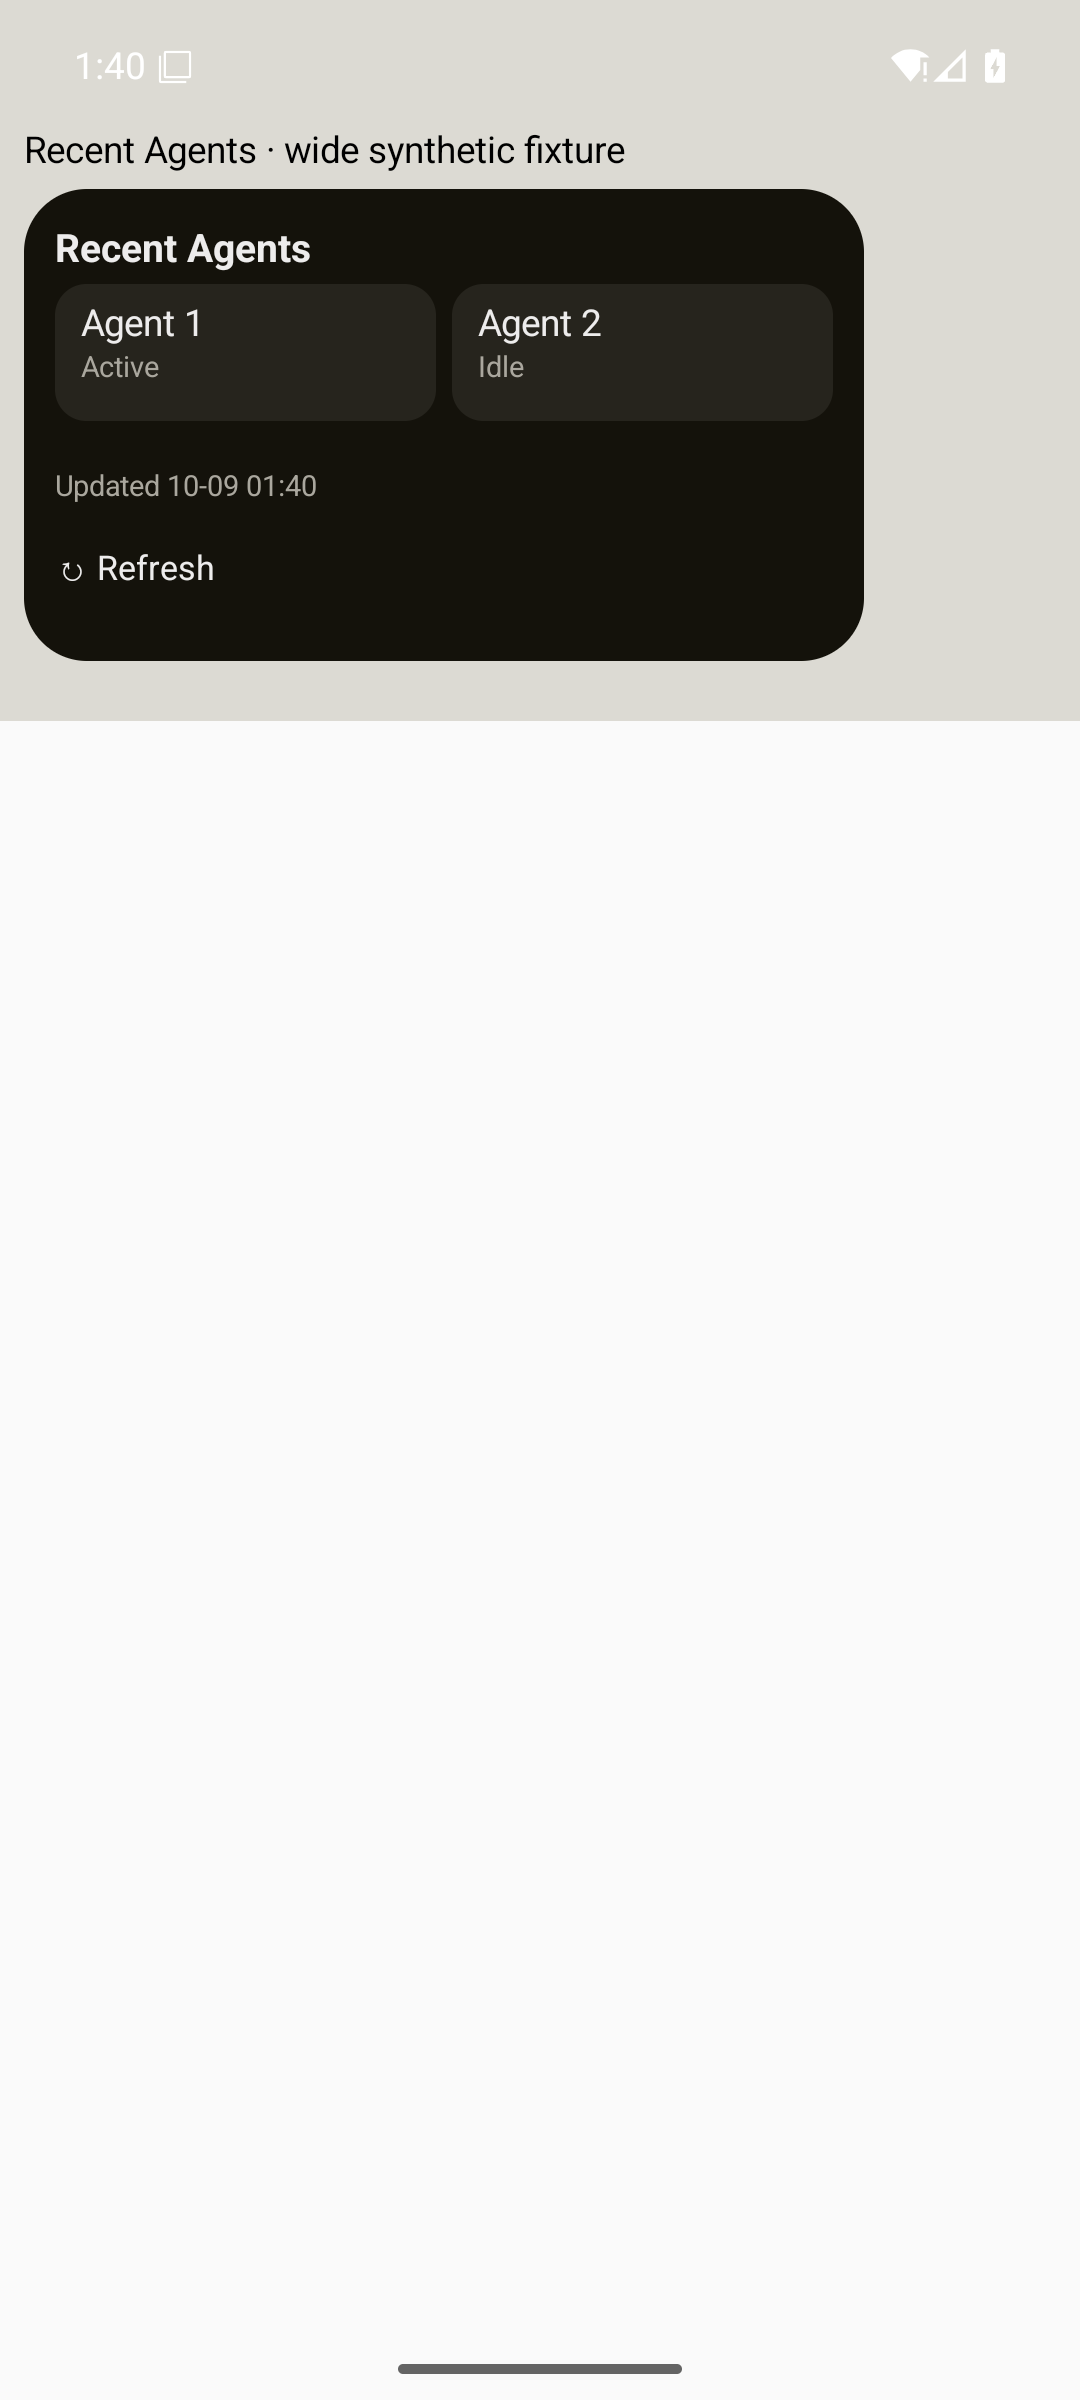
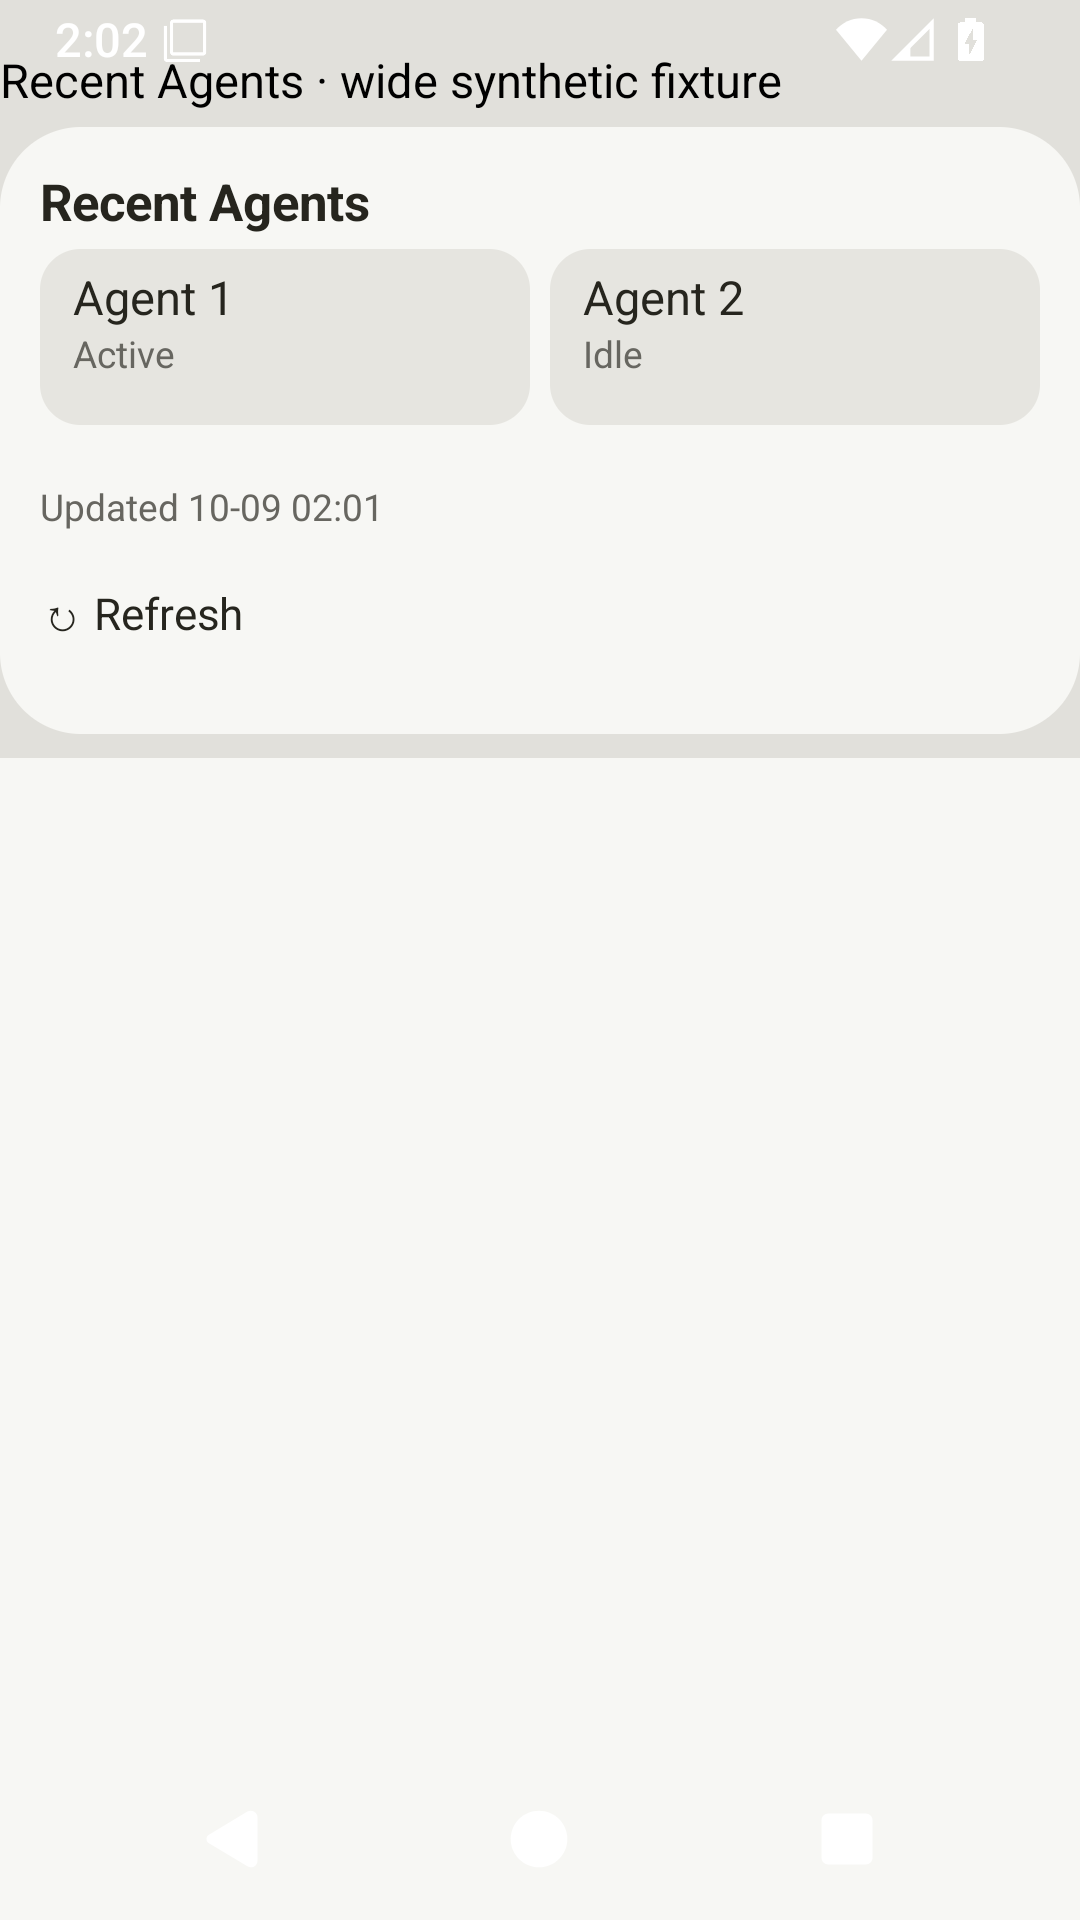
docs(readme): replace native previews with redesigned captures
行为：用 Android checks run 37872252009 的 device-screens 产物同名替换 8 张原生 PNG
（逐字节拷贝，未裁剪、未缩放）。README 的 3 张原生预览改用深色那轮：
settings-connections、usage-signed-out、overlay-fixture；小组件说明的 5 张按方案用
浅色那轮：usage-160x80、usage-320x180、agents-wide、usage-chinese、
large-text-160x80。README（中英）图注与 alt 改为「API 36 模拟器实拍、1080×1920 px、
320 dp 宽、深色系统主题、浅色见小组件说明、68%/39% 为注入的合成数据、未用任何凭据」；
home-screen-widgets.md 注明浅色主题、画幅与 QA 宿主标签；validation.md 新增
Cursor visual refresh 一节，记录本地与 CI 的命令和结果。
画幅：CI 模拟器皮肤是 320×640，WindowManager 把强制尺寸限制为长边的 3 倍
（1920 px），所以实际是 1080×1920（320×569 dp），而不是原来的 1080×2400。图片保持
原样，只更新文档里的尺寸描述；README 以 width=220 展示，只是更短，不影响阅读。
三处疑点均判定为截图环境问题，不是 App 的 P0/P1：
1. 浅色截图底部导航栏纯白：底色 254 是 enableEdgeToEdge 按浅色模式画的 90% 白
   scrim，说明 App 已请求浅色导航栏；但 SystemUI 仍画了白色按钮。深色那轮在真实的
   uimode 配置变化后正常。
2. 浅色截图状态栏图标叠在时间上：同一轮的启动器截图（App 不在前台）里也有放大的
   系统通知图标，属于运行时 wm density 改动后 SystemUI 没有刷新的问题。因此 README
   原生预览没用浅色那轮。
3. 小组件截图标题压在状态栏下：标题是 debug 专用 WidgetQaActivity 的夹具标签，该
   宿主不处理系统栏 inset，CI 设备状态栏较矮；小组件本身完整、测试断言通过，不影响
   发布包。
另外 usage-signed-out 截图里看不到用量 sheet：测试已断言 sheet 内容存在，随后 BACK
被 sheet 消费（单页面时否则会结束 Activity，后续步骤会失败），说明截图早于 sheet 窗口
首帧呈现，属于截图时机问题；alt 与图注改为如实描述收件箱胶囊中的未登录用量。
兼容边界：文件名、引用路径、docs/zh-CN/** 历史归档、App 代码与测试不变。
验证：
python3 docs/scripts/check-docs.py   # 通过：102 个本地文档引用
git diff --check
cmp docs/assets/android-connections.png /tmp/device-screens/dark/native/settings-connections.png
（8 张图均已逐张目检并与产物逐字节比对一致）

diff --git a/docs/validation.md b/docs/validation.md
@@ -36,7 +36,7 @@ implementation reaches main. Domain/SSL activation is not a successful site-cont
 | Documentation links/evidence/HTML/SVG | `python3 docs/scripts/check-docs.py` passed: 100 local references including native screenshot sources, immutable counts, JSON/SVG, duplicate IDs, JS syntax |
 | Android reviewed native/widget suite | Widget milestone `d310966`: 37 unit tests passed, debug lint reported zero errors/fatal findings, and the debug build passed; Reviewer independently verified the reports |
 | Android instrumentation | 11/11 instrumentation tests passed on the API 36 emulator, with zero failures/errors/skips; this includes the native suite and six widget tests |
-| Native screenshot review | Actual API 36 / 320 dp signed-out connections/usage and compact overlay captured; overlay uses synthetic 68/39 fixtures; no credentials or paid run |
+| Native screenshot review | Actual API 36 / 320 dp captures from the device job's `device-screens` artifact (see Cursor visual refresh below); overlay uses synthetic 68/39 fixtures; no credentials or paid run |
 | Live account API-key and web sign-in | Not run; network behavior uses MockWebServer fixtures, with no paid Agent runs |
 | Website build/tests | Widget showcase `f18299a`: 19 Node tests, syntax, offline build, and diff checks passed; Reviewer approved with no P0/P1 findings |
 | Website ego preview | Coordinator passed desktop/320 px EN/CN, persistence, metrics/scenarios/pool toggles, keyboard/focus, reduced motion, three widget families/sizes, title privacy, unlimited/stale states, and action destinations |
@@ -65,6 +65,28 @@ or behavior on vendor launchers. API 36 emulator coverage and synthetic widget h
 screenshots must not be described as the full device/account acceptance matrix.
 The tested Pixel Launcher labels compact Usage 2×2 to satisfy its minimum geometry;
 grid labels are hints, while the documented dp breakpoints define actual layouts.
+
+## Cursor visual refresh
+
+The warm light/dark redesign of the app, widgets, overlay, notification, website, and design
+documents was checked with these commands. Results are for the redesign branch.
+
+| Check | Result |
+| --- | --- |
+| `./gradlew :app:testDebugUnitTest :app:lintDebug :app:assembleDebug` | 42 unit tests passed, including `CursorThemeTest` contrast and resource checks; lint 0 errors, 45 pre-existing warnings |
+| `./gradlew :app:lintRelease :app:assembleRelease` | Unsigned R8 build passed; lint 0 errors, 45 pre-existing warnings |
+| `node --test website/test/*.test.mjs`, `node --check website/src/app.mjs`, `node website/scripts/build.mjs --offline` | 19 tests, syntax check, and offline build passed |
+| Website headless Chrome review | No horizontal overflow at 320, 390, 768, and 1440 px in light and dark; theme color follows the scheme; reduced motion removes transitions |
+| Android checks run 37872252009 | Verify job passed; device job passed 11/11 tests on the default 320 × 640 mdpi display, then 8/8 native and widget tests in light and again in dark |
+| Native capture review | 1080 × 1920 px at 540 dpi (WindowManager caps forced sizes at three times the 640 px skin); README uses the dark run, the widget guide the light run |
+
+Capture notes. In the light run, SystemUI drew an oversized status icon over the clock and
+light navigation buttons on the light scrim, including over the launcher; the app had
+requested light bars and the dark run, after a real configuration change, was unaffected,
+so these are emulator artifacts after the runtime density change. The usage sheet opened
+and was asserted in the signed-out capture, but was not yet on screen when it was taken;
+the README image therefore shows the inbox capsule's unknown values. Not run: 200% text,
+TalkBack, landscape/split-screen, physical devices, and live accounts.
 
 Do not promote pending checks to passed based on source inspection, a mock, an accepted
 build request, or a test from the reference browser extension. Update this record with

diff --git a/README.md b/README.md
@@ -45,14 +45,16 @@ this repository does not currently declare a redistribution license.
 ## Native previews
 
 <p align="center">
-  <img src="docs/assets/android-connections.png" width="220" alt="Native API-key and web-session settings, with no credentials entered">
-  <img src="docs/assets/android-usage-signed-out.png" width="220" alt="Native signed-out usage sheet with two unknown pool slots">
-  <img src="docs/assets/android-overlay-fixture.png" width="220" alt="Native overlay over the Android launcher, showing synthetic fixture percentages">
+  <img src="docs/assets/android-connections.png" width="220" alt="Native API-key and web-session settings in the dark theme, with no credentials entered">
+  <img src="docs/assets/android-usage-signed-out.png" width="220" alt="Native signed-out inbox in the dark theme, with the usage capsule showing two unknown pool values">
+  <img src="docs/assets/android-overlay-fixture.png" width="220" alt="Native floating capsule over the Android launcher in the dark theme, showing synthetic fixture percentages">
 </p>
 
-*Actual API 36 emulator captures at 320 dp: separate connections, signed-out usage, and the
-native overlay. The overlay's 68% / 39% values are injected test fixtures, not live
-account usage. No account credentials or paid Agent run were used for these captures.*
+*Actual API 36 emulator captures (1080 × 1920 px, 320 dp wide) in the dark system theme:
+separate connections, signed-out usage in the inbox capsule, and the native overlay. The app
+follows the system light or dark setting; the [widget guide](docs/design/home-screen-widgets.md)
+shows light-theme captures. The overlay's 68% / 39% values are injected test fixtures, not
+live account usage. No account credentials or paid Agent run were used for these captures.*
 
 ## Try it
 

diff --git a/README.zh-CN.md b/README.zh-CN.md
@@ -40,13 +40,14 @@ Cursor Cloud Agents 的原生 Android 伴侣，让两个用量池一目了然。
 ## 原生界面
 
 <p align="center">
-  <img src="docs/assets/android-connections.png" width="220" alt="独立 API key 与网页登录设置，无已输入凭据">
-  <img src="docs/assets/android-usage-signed-out.png" width="220" alt="未登录时，两个额度池保留未知值位置">
-  <img src="docs/assets/android-overlay-fixture.png" width="220" alt="Android 启动器上的原生悬浮胶囊，使用合成测试数据">
+  <img src="docs/assets/android-connections.png" width="220" alt="深色主题下独立的 API key 与网页登录设置，无已输入凭据">
+  <img src="docs/assets/android-usage-signed-out.png" width="220" alt="深色主题下未登录的收件箱，用量胶囊中两个额度池保留未知值">
+  <img src="docs/assets/android-overlay-fixture.png" width="220" alt="深色主题下 Android 启动器上的原生悬浮胶囊，使用合成测试数据">
 </p>
 
-*API 36 模拟器、320 dp 宽度下的实际截图。依次为连接设置、未登录用量、原生悬浮胶囊。
-悬浮窗的 68% / 39% 来自注入的测试数据，不是真实账户额度；截图未使用账户凭据或付费运行。*
+*API 36 模拟器实拍（1080 × 1920 px，320 dp 宽），深色系统主题。依次为连接设置、收件箱胶囊中的
+未登录用量、原生悬浮胶囊。应用跟随系统浅色/深色设置，[小组件说明](docs/design/home-screen-widgets.md)
+中为浅色主题截图。悬浮窗的 68% / 39% 来自注入的测试数据，不是真实账户额度；截图未使用账户凭据或付费运行。*
 
 ## 开始使用
 

diff --git a/docs/design/home-screen-widgets.md b/docs/design/home-screen-widgets.md
@@ -11,11 +11,14 @@ preview data; it is distinct from native launcher verification.
 
 ## Native capture evidence
 
-These are actual API 36 Glance RemoteViews rendered in the debug AppWidgetHostView.
-The figures and Agent summaries are injected synthetic fixtures, not production
-account data. The files are unedited full-screen captures; open them to inspect
-the widget at its recorded dimensions. They do not establish behavior on every
-launcher or replace a live-account check.
+These are actual API 36 Glance RemoteViews rendered in the debug AppWidgetHostView,
+captured in the light system theme. The figures and Agent summaries are injected
+synthetic fixtures, not production account data. The files are unedited full-screen
+captures (1080 × 1920 px, 320 × 569 dp); open them to inspect the widget at its recorded
+dimensions. The line above each widget is the debug host's fixture label; that host does
+not inset its content, so the label sits under the emulator's status bar. Dark-theme
+variants come from the same device job as part of its `device-screens` artifact. The
+captures do not establish behavior on every launcher or replace a live-account check.
 
 | Capture | What it verifies visually |
 | --- | --- |
